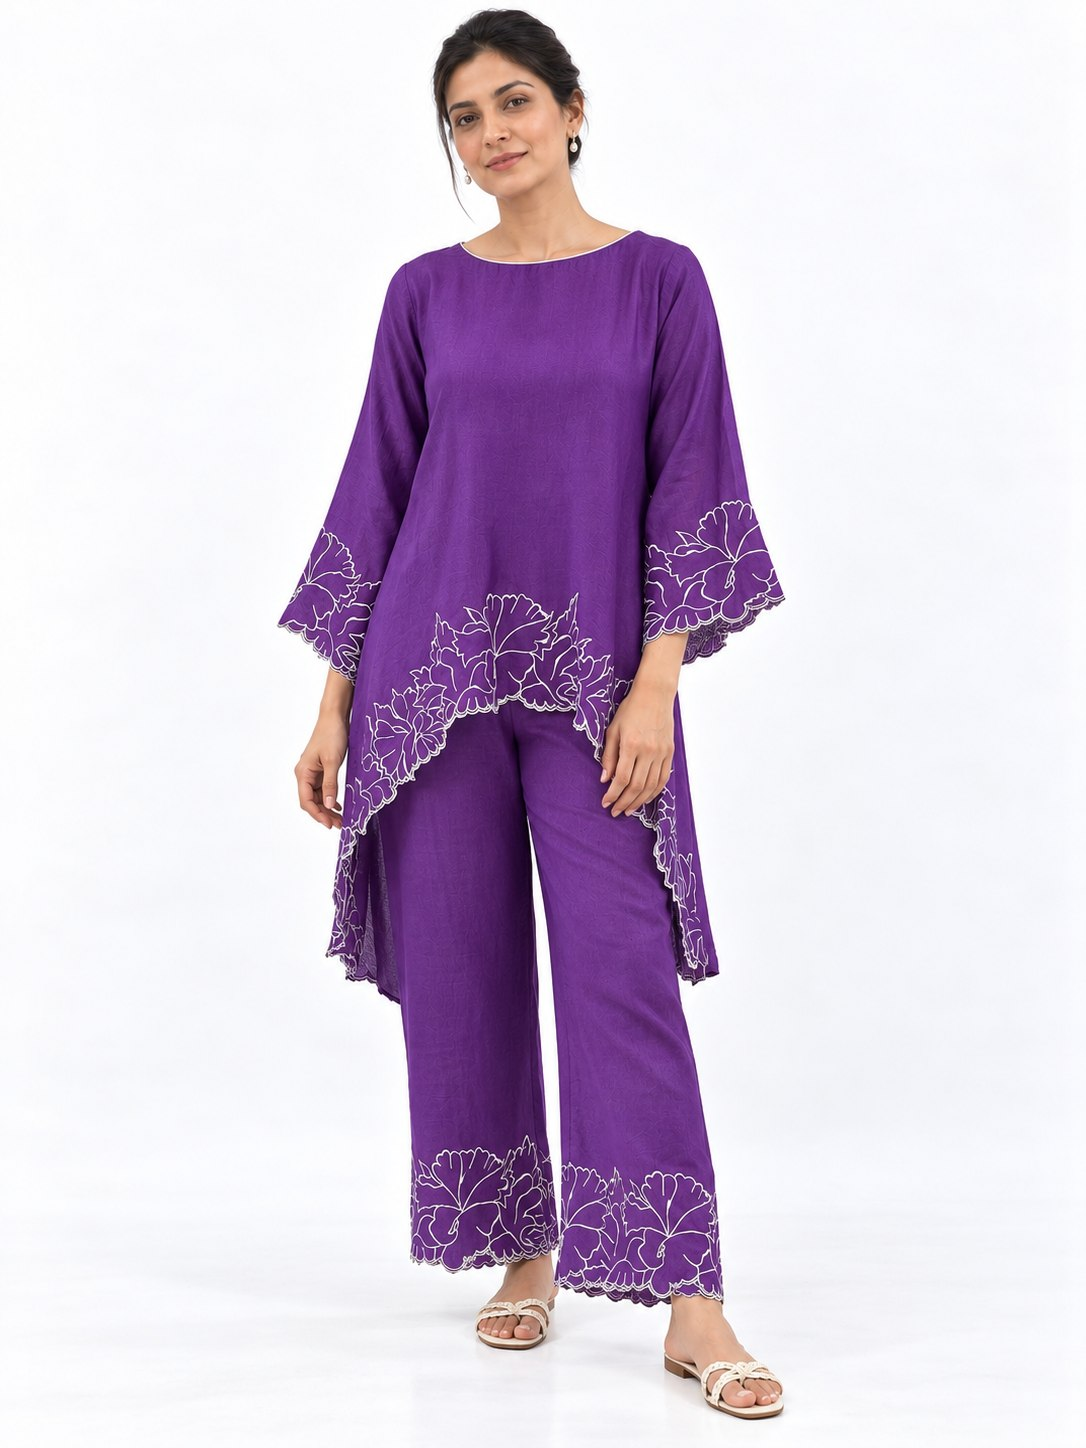
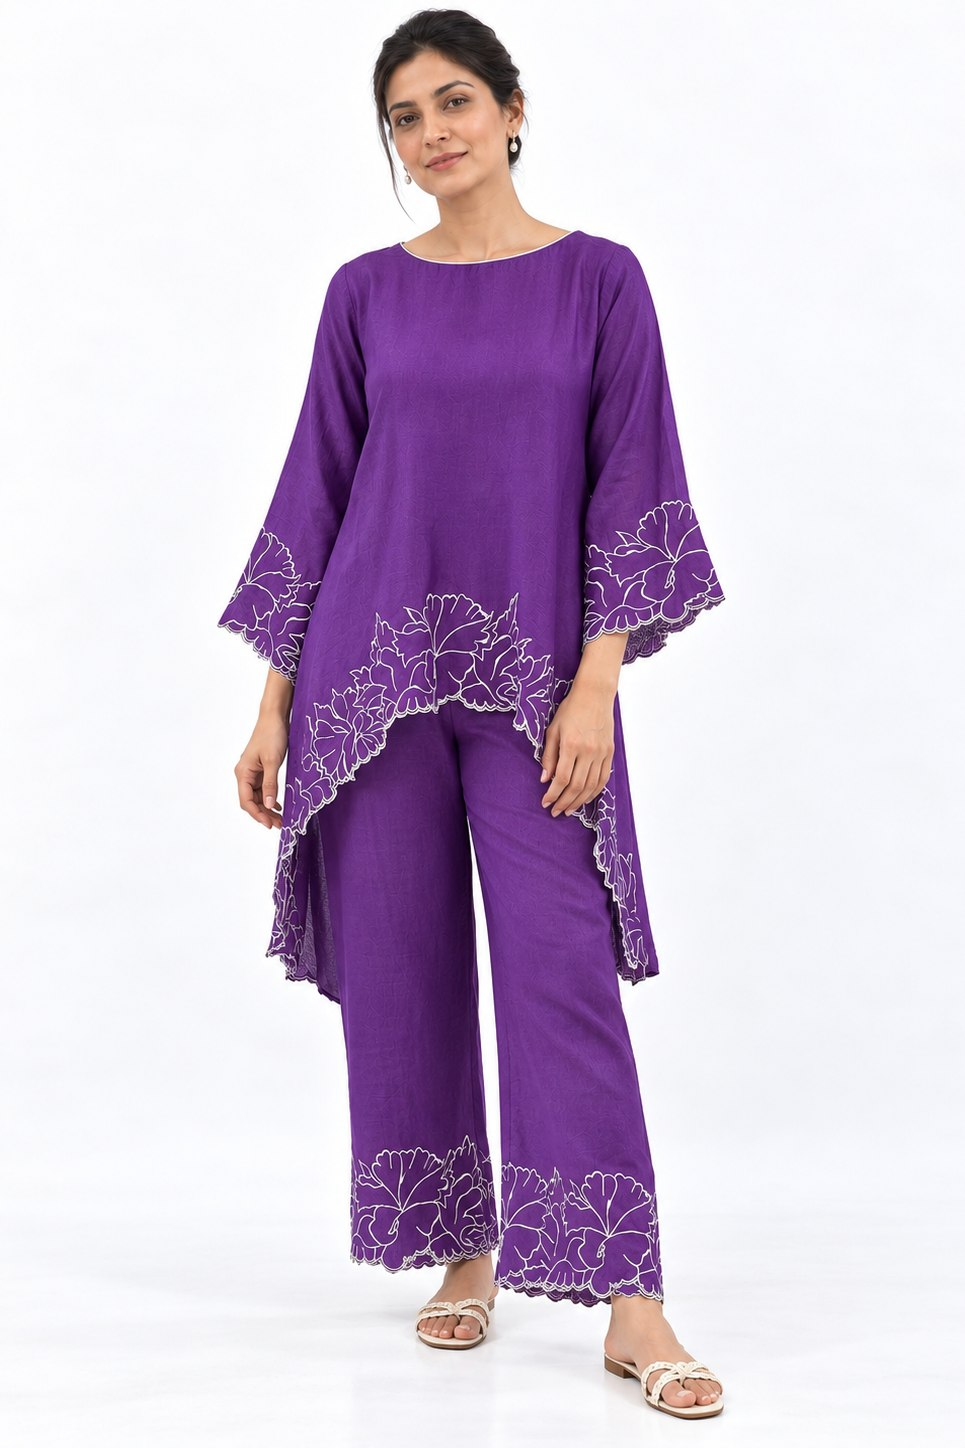
Hero: front photo left, back photo right, no cropping (client rules)
Panels reordered so the garment's front view sits left and its back view
right. Both panels are now fixed 2:3 and the Linen Blossom pair is
pre-trimmed from 3:4 to exact 2:3 (empty studio backdrop only - model
untouched), so every hero photo displays whole; object-cover stays only
as a no-op safety. A 74cqw container-query height cap guarantees the
pair always fits the images column at >=1300px, so overflow can never
clip a photo at any window shape. Noor Ajrakh leaves the rotation until
its full-length front arrives (only a waist-cropped front on file); the
two AI-model slides stay retired.

Changed region(s): [[0.2176, 0.0, 0.7461, 0.9945], [0.4663, 0.5594, 0.4974, 0.5905]]

diff --git a/src/components/home/HeroCarousel.tsx b/src/components/home/HeroCarousel.tsx
@@ -12,21 +12,26 @@ export interface HeroSlide {
 const ROTATE_MS = 5000;
 const SWIPE_THRESHOLD = 60;
 
-// Two-panel hero: a fixed-2:3 primary frame (the full garment,
-// head-to-hem - the photography has no vertical slack to crop) plus an
-// optional companion panel of the SAME garment's close-up detail. The
-// companion is flex-1, so at lg+ it absorbs whatever width the screen
-// hands the hero - the copy-to-image "gaping hole" becomes image
-// instead of empty ground, at every viewport width. Detail shots are
-// crop-tolerant at any aspect, which the full-body frames are not.
-// Both panels live here (not two carousels) so one rotation clock keeps
-// them frame-synced forever - separate intervals would drift.
+// Two-panel hero (client rules, Oct 17 2026): the FRONT photo sits left,
+// the BACK photo of the same garment sits right, and NEITHER may crop.
+// Every hero source is pre-trimmed to exactly 2:3 (empty studio backdrop
+// only - never the model), so the fixed aspect-[2/3] frames show each
+// photo whole and object-cover is a no-op safety, not a cropper. A third
+// close-up slot may be added later; until then, always front + back.
 //
-// All slides render simultaneously (position: absolute, crossfaded by
-// opacity) instead of mounting/unmounting on index change, so the browser
-// can fetch upcoming slides ahead of their turn instead of popping in a
-// blank frame on every rotation. Only slide 0 gets Next's `priority`
-// (LCP hint); the rest use the framework default (lazy).
+// Fit guarantee: at >=1300px both frames cap their height at 74cqw of
+// the hero images column (container-type: size on the wrapper), so the
+// pair's width can never exceed the column and overflow-hidden can never
+// clip a photo - regardless of window proportions. The companion only
+// renders from 1300px up; below that the hero is copy + primary, which
+// holds its perfect 2:3 at every width.
+//
+// Both panels live here (not two carousels) so one rotation clock keeps
+// them frame-synced forever - separate intervals would drift. All slides
+// render simultaneously (position: absolute, crossfaded by opacity)
+// instead of mounting/unmounting on index change, so the browser can
+// fetch upcoming slides ahead of their turn. Only slide 0 gets Next's
+// `priority` (LCP hint); the rest use the framework default (lazy).
 export function HeroCarousel({
   slides,
   details,
@@ -61,62 +66,24 @@ export function HeroCarousel({
 
   return (
     <div
-      className="relative h-full w-full overflow-hidden"
+      className="relative h-full w-full overflow-hidden [container-type:size]"
       onMouseEnter={() => (pausedRef.current = true)}
       onMouseLeave={() => (pausedRef.current = false)}
       onTouchStart={() => (pausedRef.current = true)}
       onTouchEnd={() => (pausedRef.current = false)}
     >
       <motion.div
-        className="flex h-full w-full cursor-grab touch-pan-y gap-[2px] active:cursor-grabbing"
+        className="flex h-full w-full cursor-grab touch-pan-y items-center gap-[2px] active:cursor-grabbing"
         drag="x"
         dragConstraints={{ left: 0, right: 0 }}
         dragElastic={0.15}
         onDragEnd={handleDragEnd}
       >
-        {/* Companion detail panel - sits between the copy column and the
-            primary frame. The 200px floor + 560px CAP handled wide screens,
-            but between lg and ~1300px the surplus width ran out and the
-            flex-1 panel collapsed to a ~200px sliver - object-cover then
-            cut up to half the photo's width and the model read as
-            "squished" (client video, Oct 19). Fix: the panel now only
-            renders from 1300px up AND carries a 340px floor, so it stays
-            close to a portrait read (<= ~10% side crop) whenever it is
-            visible; below that, the hero is copy + primary only, which
-            hold their perfect 2:3 at every width. */}
-        {details && detailCount === count && (
-          <div className="relative hidden min-w-[340px] max-w-[560px] flex-1 min-[1300px]:block">
-            {details.map((slide, i) => (
-              <div
-                key={slide.url}
-                className="absolute inset-0 bg-labelashb-ground-alt transition-opacity duration-1000 ease-in-out"
-                style={{ opacity: i === index ? 1 : 0 }}
-                aria-hidden={i !== index}
-              >
-                {/* Single cover image. The companion source is now a
-                    FULL-BODY view (back view - see collectionHeroDetails),
-                    not a macro: a person photo reads as an intentional
-                    editorial crop at any panel width, where a macro's
-                    edge-to-edge subject read as "cropped" at every one
-                    (five client complaints, Sep 1-24). A blur-fill
-                    contain variant was tried and rejected - its
-                    sharp-to-blur boundary read as a defect. */}
-                <Image
-                  src={slide.url}
-                  alt={slide.alt}
-                  fill
-                  sizes="(min-width: 1024px) 560px, 100vw"
-                  loading="eager"
-                  priority={i === 0}
-                  className="pointer-events-none object-cover"
-                />
-              </div>
-            ))}
-          </div>
-        )}
-
-        {/* Primary frame - fixed 2:3 so the garment is never cropped. */}
-        <div className="relative aspect-[2/3] h-full shrink-0">
+        {/* Primary frame - the garment's FRONT view, left of the pair.
+            Fixed 2:3 so the photo (pre-trimmed to the same ratio) never
+            crops. Height is the column height, capped at 74cqw once the
+            companion joins at 1300px so the two frames always fit. */}
+        <div className="relative aspect-[2/3] h-full shrink-0 min-[1300px]:h-[min(100%,74cqw)]">
           {slides.map((slide, i) => (
             <div
               key={slide.url}
@@ -128,12 +95,11 @@ export function HeroCarousel({
                 src={slide.url}
                 alt={slide.alt}
                 fill
-                // The primary frame keeps the photos' native 2:3 at every
-                // size (70vh from md up - page.tsx), so its width is
-                // always ~47vh; the companion takes whatever remains.
+                // Below md the primary is the only panel and sizes to the
+                // viewport; from md up it tracks the column height.
                 sizes="(min-width: 768px) 47vh, 100vw"
                 // Eager for the same mid-fade-pop reason as the
-                // companion panel above.
+                // companion panel below.
                 loading="eager"
                 priority={i === 0}
                 className="pointer-events-none object-cover"
@@ -160,6 +126,34 @@ export function HeroCarousel({
             </div>
           )}
         </div>
+
+        {/* Companion panel - the SAME garment's BACK view, right of the
+            pair (client rule, Oct 17 2026). Also fixed 2:3 so the photo
+            shows whole; same 74cqw height cap so the pair never exceeds
+            the column. Hidden below 1300px - there the hero is copy +
+            primary only. */}
+        {details && detailCount === count && (
+          <div className="relative hidden aspect-[2/3] h-full shrink-0 min-[1300px]:block min-[1300px]:h-[min(100%,74cqw)]">
+            {details.map((slide, i) => (
+              <div
+                key={slide.url}
+                className="absolute inset-0 bg-labelashb-ground-alt transition-opacity duration-1000 ease-in-out"
+                style={{ opacity: i === index ? 1 : 0 }}
+                aria-hidden={i !== index}
+              >
+                <Image
+                  src={slide.url}
+                  alt={slide.alt}
+                  fill
+                  sizes="(min-width: 1300px) 45vw, 100vw"
+                  loading="eager"
+                  priority={i === 0}
+                  className="pointer-events-none object-cover"
+                />
+              </div>
+            ))}
+          </div>
+        )}
       </motion.div>
     </div>
   );

diff --git a/src/data/new-collection.ts b/src/data/new-collection.ts
@@ -212,33 +212,29 @@ export const collectionGarments: CollectionGarment[] = [
   ),
   // Hero refresh (Oct 17 2026): real atelier photography from the client's
   // Drive (folders 42/43/45), replacing the last two AI-model slides.
-  // These three garments appear nowhere else on the site. Only the views
-  // that exist as files are referenced - the hero override names them
-  // explicitly so no path points at a file that was never copied in.
-  garmentWithHero(
+  // These garments appear nowhere else on the site. All hero sources are
+  // pre-trimmed to exactly 2:3 (empty backdrop only) so the carousel's
+  // fixed frames never crop them.
+  garment(
     "19-linen-blossom-cutwork-coord",
     "Linen Blossom Cutwork Co-ord",
     "Co-ord Sets",
     "Violet traced with white cutwork florals",
     "A violet tunic with flared sleeves and a high-low hem over matching trousers, traced with white cutwork florals along the sleeves, hemline and trouser cuffs.",
-    {
-      front: img("19-linen-blossom-cutwork-coord", "01-front-view.jpg"),
-      back: img("19-linen-blossom-cutwork-coord", "04-back-view.jpg"),
-      backLabel: "back view",
-    },
   ),
-  garmentWithHero(
+  garment(
     "20-crimson-mosaic-midi-dress",
     "Crimson Mosaic Dress",
     "Dresses",
     "Deep maroon scattered with peach and slate diamonds",
     "A sleeveless A-line midi in deep maroon, printed all over with scattered diamonds of peach, slate blue and darker maroon. The high band collar keeps it crisp; the flare gives it swing.",
-    {
-      front: img("20-crimson-mosaic-midi-dress", "01-front-view.jpg"),
-      back: img("20-crimson-mosaic-midi-dress", "04-back-view.jpg"),
-      backLabel: "back view",
-    },
   ),
+  // Held out of the hero rotation (Oct 17 2026): the client's rules need a
+  // full-length FRONT for the left panel, and this garment's only front on
+  // file is cropped at the waist. Returns to HERO_SLUGS once the complete
+  // folder 43 is downloaded - then drop this hero override, because the
+  // real front (01-front-view.jpg) takes the left panel and the back view
+  // takes the right.
   garmentWithHero(
     "21-noor-ajrakh-dress",
     "Noor Ajrakh Dress",
@@ -246,8 +242,6 @@ export const collectionGarments: CollectionGarment[] = [
     "An Anarkali in warm brown, printed with mustard and blue",
     "A floor-sweeping Anarkali in warm brown, printed with mustard-gold, tan and blue motifs. The V-neckline runs into a buttoned placket; three-quarter sleeves and a full skirt that moves when you do.",
     {
-      // Its only front photo is cropped at the waist, so the main slide is
-      // the full-length back view and the companion panel shows the side.
       front: img("21-noor-ajrakh-dress", "04-back-view.jpg"),
       back: img("21-noor-ajrakh-dress", "03-side-view.jpg"),
       backLabel: "side view",
@@ -265,18 +259,22 @@ export function getGarment(slug: string): CollectionGarment | undefined {
   return collectionGarments.find((g) => g.slug === slug);
 }
 
-// Hero curation (Oct 17 2026): rotated onto real atelier photography
-// (garments 19-21, Drive folders 42/43/45) at the client's request,
-// retiring the last two AI-model slides (coral mandarin, purple tunic -
-// both remain in the registry, unplaced). The standing rule from the
-// Sep 1 2026 note still applies: a hero garment must not also appear on
-// any product page - one garment, one home. Folders 41 (side view only),
+// Hero curation (Oct 17 2026, evening): client rules - the hero is
+// exactly two photos per garment, FRONT on the left and BACK on the
+// right, and neither may be cropped (a third close-up slot may come
+// later). All hero sources are pre-trimmed to exactly 2:3 so the fixed
+// frames show them whole. Real atelier photography (garments 19-20,
+// Drive folders 42/45) replaced the last two AI-model slides, which
+// remain in the registry, unplaced. The standing rule still applies: a
+// hero garment must not also appear on any product page. Noor Ajrakh
+// (21) is held out of the rotation until its full-length front exists -
+// its only front on file is cropped at the waist (Drive folder 43 has
+// five shots; only three were downloaded). Folders 41 (side view only),
 // 44 (cropped at the knees) and 46 (single back view) were passed over
 // for lack of a usable pair.
 const HERO_SLUGS = [
   "19-linen-blossom-cutwork-coord",
   "20-crimson-mosaic-midi-dress",
-  "21-noor-ajrakh-dress",
 ];
 
 // Kept for future re-shoot hero picks: display names for reshoot slugs
